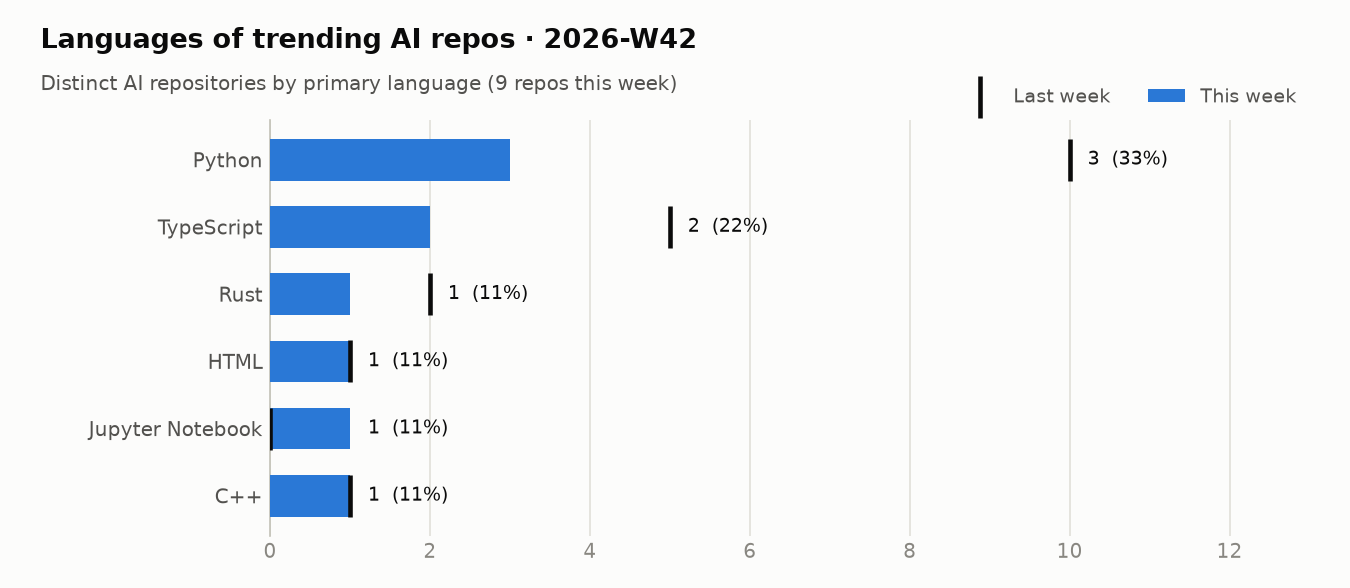
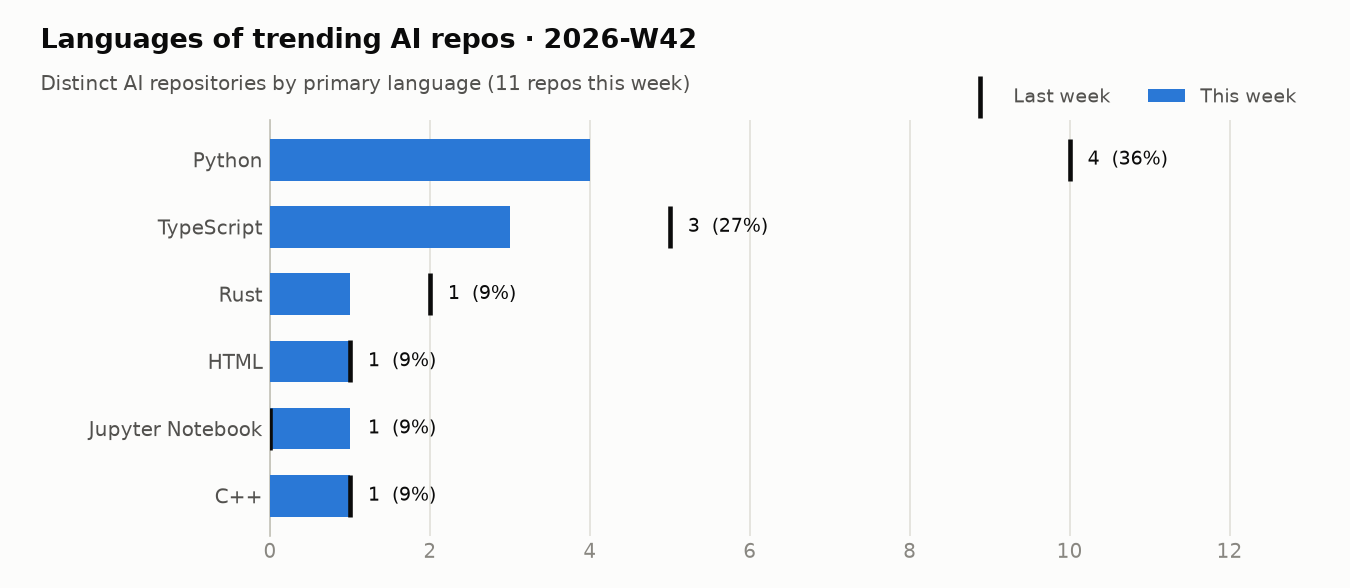
trending: snapshot 2026-10-14

diff --git a/README.md b/README.md
@@ -7,28 +7,27 @@ Every morning a GitHub Actions workflow reads the GitHub trending page, looks up
 ## Live view
 
 <!-- TRACKER_START -->
-### 🔥 AI repos trending today · 2026-10-13
+### 🔥 AI repos trending today · 2026-10-14
 
-8 of 9 trending repositories are AI-related.
+7 of 9 trending repositories are AI-related.
 
 | # | Repo | Language | ⭐ today | ⭐ total | Topics |
 |--:|---|---|--:|--:|---|
-| 1 | [morluto/rea](https://github.com/morluto/rea)<br><sub>Star morluto / rea Reverse engineer anything with agents, from app behavior down to native…</sub> | TypeScript | 45,327 | 180,233 | `agent-skills` `ai-agents` `binary-analysis` `claude-code` |
-| 3 | [mksglu/context-mode](https://github.com/mksglu/context-mode)<br><sub>Sponsor Star mksglu / context-mode Context window optimization for AI coding agents. Sandb…</sub> | TypeScript | 246 | 27,662 | `antigravity` `claude` `claude-code` `claude-code-hooks` |
-| 4 | [storytold/artcraft](https://github.com/storytold/artcraft)<br><sub>Star storytold / artcraft ArtCraft is an intentional crafting engine for artists, designer…</sub> | Rust | 4,095 | 23,514 | `3d-graphics` `ai` `aivideo` `filmmaking` |
-| 5 | [open-webui/open-webui](https://github.com/open-webui/open-webui)<br><sub>Sponsor Star open-webui / open-webui User-friendly AI Interface (Supports Ollama, OpenAI A…</sub> | Python | 157 | 155,435 | `ai` `llm` `llm-ui` `llm-webui` |
-| 6 | [cathrynlavery/diagram-design](https://github.com/cathrynlavery/diagram-design)<br><sub>Sponsor Star cathrynlavery / diagram-design Editorial diagram design for Claude Code, Code…</sub> | HTML | 2,081 | 53,220 | `agent-skills` `claude-code` `codex` `data-visualization` |
-| 7 | [lyogavin/airllm](https://github.com/lyogavin/airllm)<br><sub>Sponsor Star lyogavin / airllm AirLLM 2.8T LLM inference with single 4GB GPU</sub> | Jupyter Notebook | 879 | 37,868 | `chinese-llm` `chinese-nlp` `finetune` `generative-ai` |
-| 8 | [microsoft/BitNet](https://github.com/microsoft/BitNet)<br><sub>Star microsoft / BitNet Official inference framework for 1-bit LLMs</sub> | C++ | 97 | 41,058 | – |
-| 9 | [Alishahryar1/free-claude-code](https://github.com/Alishahryar1/free-claude-code)<br><sub>Star Alishahryar1 / free-claude-code Use Claude Code, Codex, VSCode, Pi, and OpenCode (and…</sub> | Python | 626 | 59,682 | – |
+| 1 | [morluto/rea](https://github.com/morluto/rea)<br><sub>Star morluto / rea Reverse engineer anything with agents, from app behavior down to native…</sub> | TypeScript | 54,679 | 219,289 | `agent-skills` `ai-agents` `binary-analysis` `claude-code` |
+| 3 | [debpalash/VoiceStudio](https://github.com/debpalash/VoiceStudio)<br><sub>Star debpalash / VoiceStudio VoiceStudio is the open-source, fully-local ElevenLabs altern…</sub> | Python | 1,748 | 64,276 | `ai` `audiobook` `cuda` `dubbing` |
+| 4 | [mksglu/context-mode](https://github.com/mksglu/context-mode)<br><sub>Sponsor Star mksglu / context-mode Context window optimization for AI coding agents. Sandb…</sub> | TypeScript | 969 | 28,522 | `antigravity` `claude` `claude-code` `claude-code-hooks` |
+| 5 | [cathrynlavery/diagram-design](https://github.com/cathrynlavery/diagram-design)<br><sub>Sponsor Star cathrynlavery / diagram-design Editorial diagram design for Claude Code, Code…</sub> | HTML | 1,815 | 54,665 | `agent-skills` `claude-code` `codex` `data-visualization` |
+| 6 | [vercel-labs/skills](https://github.com/vercel-labs/skills)<br><sub>Star vercel-labs / skills The open agent skills tool - npx skills</sub> | TypeScript | 190 | 34,729 | – |
+| 7 | [lyogavin/airllm](https://github.com/lyogavin/airllm)<br><sub>Sponsor Star lyogavin / airllm AirLLM 2.8T LLM inference with single 4GB GPU</sub> | Jupyter Notebook | 1,001 | 38,499 | `chinese-llm` `chinese-nlp` `finetune` `generative-ai` |
+| 8 | [storytold/artcraft](https://github.com/storytold/artcraft)<br><sub>Star storytold / artcraft ArtCraft is an intentional crafting engine for artists, designer…</sub> | Rust | 4,081 | 26,521 | `3d-graphics` `ai` `aivideo` `filmmaking` |
 
 ### 📊 This week so far · 2026-W42
 
 #### Summary
 
-- **9** distinct AI repos trended over 2 day(s) (last week: 34)
-- AI share of all trending slots: **76%** (+2 pts vs last week)
-- Dominant language: **Python** (33% of AI repos)
+- **11** distinct AI repos trended over 3 day(s) (last week: 34)
+- AI share of all trending slots: **77%** (+2 pts vs last week)
+- Dominant language: **Python** (36% of AI repos)
 
 #### Languages
 
@@ -36,12 +35,12 @@ Every morning a GitHub Actions workflow reads the GitHub trending page, looks up
 
 | Language | Repos | Share | Last week |
 |---|--:|--:|--:|
-| Python | 3 | 33% | 10 |
-| TypeScript | 2 | 22% | 5 |
-| Rust | 1 | 11% | 2 |
-| HTML | 1 | 11% | 1 |
-| Jupyter Notebook | 1 | 11% | 0 |
-| C++ | 1 | 11% | 1 |
+| Python | 4 | 36% | 10 |
+| TypeScript | 3 | 27% | 5 |
+| Rust | 1 | 9% | 2 |
+| HTML | 1 | 9% | 1 |
+| Jupyter Notebook | 1 | 9% | 0 |
+| C++ | 1 | 9% | 1 |
 
 #### Topics
 
@@ -49,36 +48,37 @@ Every morning a GitHub Actions workflow reads the GitHub trending page, looks up
 
 | Topic | Repos this week |
 |---|--:|
-| `mcp` | 3 |
 | `claude-code` | 3 |
+| `mcp` | 3 |
 | `codex` | 3 |
 | `agent-skills` | 2 |
-| `binary-analysis` | 1 |
-| `cli` | 1 |
-| `decompiler` | 1 |
-| `ghidra` | 1 |
-| `static-analysis` | 1 |
+| `developer-tools` | 1 |
+| `reverse-engineering` | 1 |
 | `ctf` | 1 |
-| `ai-agents` | 1 |
-| `dsh` | 1 |
+| `dsh-plugin` | 1 |
+| `static-analysis` | 1 |
+| `ghidra` | 1 |
+| `hopper` | 1 |
+| `model-context-protocol` | 1 |
 
 #### Most persistent AI repos
 
 | Repo | Language | Days trending | Stars gained | Total stars |
 |---|---|--:|--:|--:|
-| [morluto/rea](https://github.com/morluto/rea) | TypeScript | 2 | 70,926 | 180,233 |
-| [storytold/artcraft](https://github.com/storytold/artcraft) | Rust | 2 | 7,052 | 23,514 |
-| [cathrynlavery/diagram-design](https://github.com/cathrynlavery/diagram-design) | HTML | 2 | 3,164 | 53,220 |
-| [lyogavin/airllm](https://github.com/lyogavin/airllm) | Jupyter Notebook | 2 | 1,427 | 37,868 |
+| [morluto/rea](https://github.com/morluto/rea) | TypeScript | 3 | 125,605 | 219,289 |
+| [storytold/artcraft](https://github.com/storytold/artcraft) | Rust | 3 | 11,133 | 26,521 |
+| [cathrynlavery/diagram-design](https://github.com/cathrynlavery/diagram-design) | HTML | 3 | 4,979 | 54,665 |
+| [lyogavin/airllm](https://github.com/lyogavin/airllm) | Jupyter Notebook | 3 | 2,428 | 38,499 |
+| [mksglu/context-mode](https://github.com/mksglu/context-mode) | TypeScript | 2 | 1,215 | 28,522 |
+| [debpalash/VoiceStudio](https://github.com/debpalash/VoiceStudio) | Python | 1 | 1,748 | 64,276 |
 | [Alishahryar1/free-claude-code](https://github.com/Alishahryar1/free-claude-code) | Python | 1 | 626 | 59,682 |
 | [pytorch/pytorch](https://github.com/pytorch/pytorch) | Python | 1 | 315 | 104,680 |
-| [mksglu/context-mode](https://github.com/mksglu/context-mode) | TypeScript | 1 | 246 | 27,662 |
+| [vercel-labs/skills](https://github.com/vercel-labs/skills) | TypeScript | 1 | 190 | 34,729 |
 | [open-webui/open-webui](https://github.com/open-webui/open-webui) | Python | 1 | 157 | 155,435 |
-| [microsoft/BitNet](https://github.com/microsoft/BitNet) | C++ | 1 | 97 | 41,058 |
 
 ➡ Last full weekly analysis: [2026-W41](reports/weekly/2026-W41.md) · [all reports](reports/weekly)
 
-_Tracking since 2026-10-01 · 13 day(s) of data · [raw data](data/trending.csv)_
+_Tracking since 2026-10-01 · 14 day(s) of data · [raw data](data/trending.csv)_
 <!-- TRACKER_END -->
 
 ## How it works
